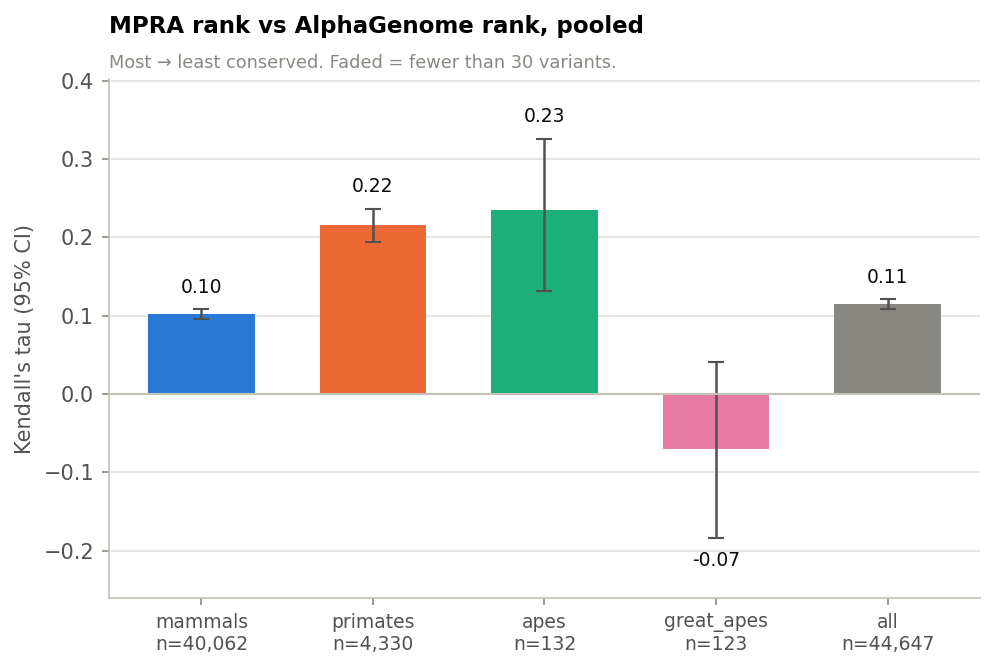
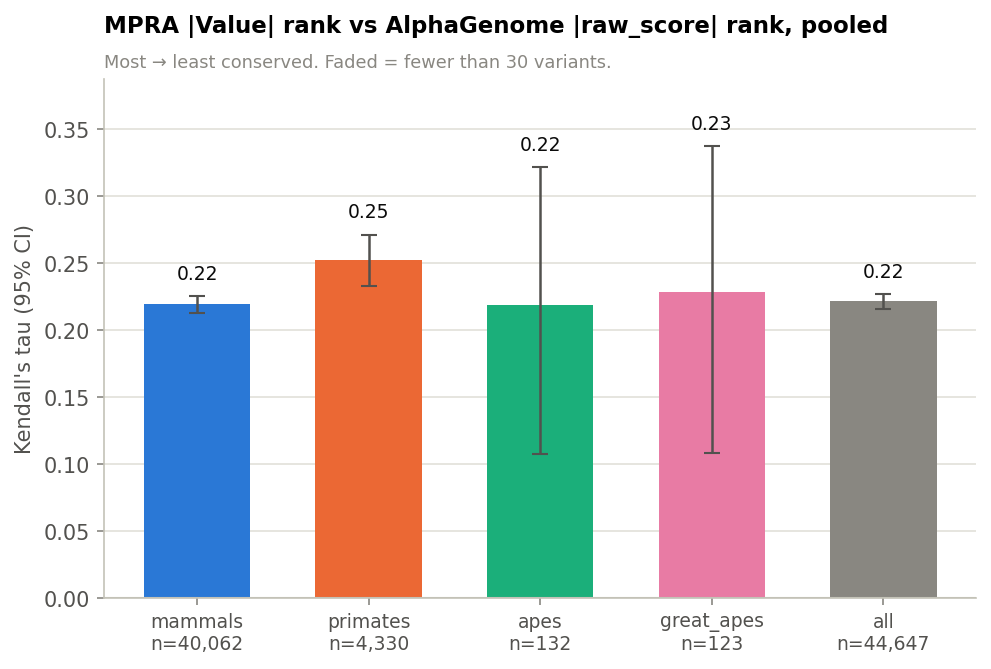
te eda

diff --git a/te_vs_mpra.py b/te_vs_mpra.py
@@ -1,0 +1,312 @@
+"""
+te_vs_mpra.py
+-------------
+Within each conservation level, compare transposable-element (TE) variants
+with non-TE variants:
+
+  1. how much of each level is TE (unique positions)
+  2. MPRA effect size |Value| for TE vs non-TE
+  3. agreement between MPRA |Value| and AlphaGenome |raw_score|
+     (Kendall's tau), for TE and non-TE separately, both pooled and within
+     element (elements differ in effect scale and TE content, so the pooled
+     numbers are confounded by element)
+
+non-TE = te_status non_repeat or other_repeat (simple / low-complexity
+repeats, which are not transposable elements).
+
+Outputs (plots/te_vs_mpra/)
+---------------------------
+  te_fraction_by_conservation.png
+  abs_value_te_vs_nonte.png
+  tau_te_vs_nonte.png
+  scatter_abs_value_vs_abs_raw_score.png
+  summary.tsv              per level x TE: n, median |Value|, pooled tau + CI
+  within_element_tau.tsv   tau per element x level x TE
+  mannwhitney.tsv          |Value| TE vs non-TE test per level
+
+Usage
+-----
+    python te_vs_mpra.py
+"""
+
+import argparse
+import os
+
+import matplotlib
+matplotlib.use("Agg")
+import matplotlib.pyplot as plt
+import numpy as np
+import pandas as pd
+from scipy.stats import chi2_contingency, kendalltau, mannwhitneyu
+
+BASE = "/data/bentonm_shared/variant_effect_prediction/Variant-Effect-Prediction"
+DATA_DIR = f"{BASE}/data"
+
+parser = argparse.ArgumentParser(description="TE vs non-TE variants within conservation levels.")
+parser.add_argument("--alphagenome", default=f"{DATA_DIR}/variants_alphagenome.tsv")
+parser.add_argument("--plot-dir", default=f"{BASE}/plots/te_vs_mpra")
+args = parser.parse_args()
+PLOT_DIR = args.plot_dir
+
+N_BOOT = 1000
+MIN_N = 30   # groups / cells smaller than this are flagged or skipped
+
+# Most to least conserved.
+LEVELS = ["mammals", "primates", "apes", "great_apes", "human_chimp", "human_only"]
+TE_GROUPS = ["non-TE", "TE"]
+
+os.makedirs(PLOT_DIR, exist_ok=True)
+rng = np.random.default_rng(0)
+
+# ── Plot style (matches compare_ag_vs_base.py) ──────────────────────────────
+TE_COLORS = {"non-TE": "#898781", "TE": "#4a3aa7"}   # neutral grey vs violet
+INK = "#0b0b0b"
+INK_2 = "#52514e"
+MUTED = "#898781"
+GRID = "#e1e0d9"
+AXIS = "#c3c2b7"
+FADED = 0.35
+
+plt.rcParams.update({
+    "font.size": 10,
+    "axes.titlesize": 11,
+    "axes.titleweight": "bold",
+    "axes.titlelocation": "left",
+    "axes.titlepad": 22,
+    "axes.labelcolor": INK_2,
+    "axes.edgecolor": AXIS,
+    "axes.spines.top": False,
+    "axes.spines.right": False,
+    "axes.grid": True,
+    "axes.grid.axis": "y",
+    "axes.axisbelow": True,
+    "grid.color": GRID,
+    "grid.linewidth": 0.8,
+    "xtick.color": MUTED,
+    "ytick.color": MUTED,
+    "xtick.labelcolor": INK_2,
+    "ytick.labelcolor": INK_2,
+    "legend.frameon": False,
+    "figure.dpi": 150,
+    "savefig.bbox": "tight",
+})
+
+
+def save(fig, name):
+    path = f"{PLOT_DIR}/{name}"
+    fig.savefig(path)
+    plt.close(fig)
+    print(f"Saved {path}")
+
+
+def fmt_p(p):
+    return "p < 1e-4" if p < 1e-4 else f"p = {p:.2g}"
+
+
+# ── Load ────────────────────────────────────────────────────────────────────
+df = pd.read_csv(args.alphagenome, sep="\t", dtype={"Chromosome": str})
+df = df.dropna(subset=["Value", "raw_score", "conservation_level", "te_status"])
+df["te"] = np.where(df["te_status"] == "TE", "TE", "non-TE")
+df["abs_value"] = df["Value"].abs()
+df["abs_raw_score"] = df["raw_score"].abs()
+levels = [lv for lv in LEVELS if lv in set(df["conservation_level"])]
+print(f"{len(df):,} variants; levels: {', '.join(levels)}")
+
+
+# ── 1. TE fraction per level (unique positions) ─────────────────────────────
+pos = df.drop_duplicates(["Chromosome", "Position"])
+counts = pd.crosstab(pos["conservation_level"], pos["te"]).reindex(levels).fillna(0)
+chi2, chi_p, _, _ = chi2_contingency(counts[TE_GROUPS])
+frac = counts.div(counts.sum(axis=1), axis=0)
+
+fig, ax = plt.subplots(figsize=(7.5, 3.6))
+y = np.arange(len(levels))[::-1]
+left = np.zeros(len(levels))
+for g in TE_GROUPS:
+    ax.barh(y, frac[g] * 100, left=left, color=TE_COLORS[g], height=0.62,
+            edgecolor="white", linewidth=2, label=g)
+    left += frac[g].to_numpy() * 100
+for yi, lv in zip(y, levels):
+    ax.text(101, yi, f"{frac.loc[lv, 'TE']:.0%} TE   n={int(counts.loc[lv].sum()):,}",
+            va="center", fontsize=8.5, color=INK_2)
+ax.set_yticks(y, levels)
+ax.set_xlim(0, 100)
+ax.set_xlabel("% of unique variant positions")
+ax.grid(False)
+ax.set_title("TE share of variant positions by conservation level")
+ax.text(0, 1.04, f"Most → least conserved, top to bottom. χ² {fmt_p(chi_p)}.",
+        transform=ax.transAxes, fontsize=8.5, color=MUTED)
+ax.legend(loc="upper left", bbox_to_anchor=(0, -0.18), ncol=2, fontsize=8.5)
+save(fig, "te_fraction_by_conservation.png")
+
+
+# ── 2. |Value| TE vs non-TE within each level ───────────────────────────────
+mw_rows = []
+fig, ax = plt.subplots(figsize=(7.5, 4.6))
+width = 0.34
+for i, lv in enumerate(levels):
+    sub = df[df["conservation_level"] == lv]
+    a = sub.loc[sub["te"] == "TE", "abs_value"]
+    b = sub.loc[sub["te"] == "non-TE", "abs_value"]
+    for j, g in enumerate(TE_GROUPS):
+        vals = sub.loc[sub["te"] == g, "abs_value"]
+        if vals.empty:
+            continue
+        x = i + (j - 0.5) * width
+        bp = ax.boxplot(vals, positions=[x], widths=width * 0.85, showfliers=False,
+                        patch_artist=True, medianprops={"color": "white", "lw": 2},
+                        whiskerprops={"color": TE_COLORS[g]}, capprops={"color": TE_COLORS[g]})
+        bp["boxes"][0].set(facecolor=TE_COLORS[g], edgecolor=TE_COLORS[g],
+                           alpha=FADED if len(vals) < MIN_N else 1)
+    if len(a) and len(b):
+        p = mannwhitneyu(a, b).pvalue
+        mw_rows.append({"conservation_level": lv, "n_TE": len(a), "n_nonTE": len(b),
+                        "median_abs_value_TE": a.median(), "median_abs_value_nonTE": b.median(),
+                        "mannwhitney_p": p})
+        ax.annotate(fmt_p(p), (i, 1), xycoords=("data", "axes fraction"), ha="center",
+                    va="bottom", fontsize=8.5, color=INK_2)
+mw = pd.DataFrame(mw_rows)
+mw.to_csv(f"{PLOT_DIR}/mannwhitney.tsv", sep="\t", index=False)
+n_by = df.groupby(["conservation_level", "te"]).size()
+ax.set_xticks(range(len(levels)),
+              [f"{lv}\nTE {n_by.get((lv, 'TE'), 0):,}\nnon-TE {n_by.get((lv, 'non-TE'), 0):,}"
+               for lv in levels], fontsize=8.5)
+ax.set_ylabel("MPRA |Value|  (|log2 effect|)")
+ax.set_title("MPRA effect size, TE vs non-TE variants", pad=34)
+ax.text(0, 1.07, f"Boxes = IQR, white line = median, whiskers 1.5×IQR. Mann–Whitney p above. "
+        f"Faded = n < {MIN_N}.", transform=ax.transAxes, fontsize=8.5, color=MUTED)
+for g in TE_GROUPS:
+    ax.bar(0, 0, color=TE_COLORS[g], label=g)
+ax.legend(loc="upper right", fontsize=8.5)
+save(fig, "abs_value_te_vs_nonte.png")
+
+
+# ── 3. Kendall's tau |Value| vs |raw_score|, TE vs non-TE ───────────────────
+def tau(g):
+    return kendalltau(g["abs_value"], g["abs_raw_score"])[0]
+
+
+rows = []
+for lv in levels:
+    for g in TE_GROUPS:
+        sub = df[(df["conservation_level"] == lv) & (df["te"] == g)]
+        if len(sub) < 3:
+            continue
+        idx = np.arange(len(sub))
+        boot = [tau(sub.iloc[rng.choice(idx, len(sub))]) for _ in range(N_BOOT)]
+        rows.append({"conservation_level": lv, "te": g, "n": len(sub),
+                     "median_abs_value": sub["abs_value"].median(),
+                     "kendall_tau": tau(sub),
+                     "tau_p": kendalltau(sub["abs_value"], sub["abs_raw_score"])[1],
+                     "tau_lo": np.nanpercentile(boot, 2.5),
+                     "tau_hi": np.nanpercentile(boot, 97.5),
+                     "low_n": len(sub) < MIN_N})
+summary = pd.DataFrame(rows)
+summary.to_csv(f"{PLOT_DIR}/summary.tsv", sep="\t", index=False)
+
+# Within element: tau per (element, level, TE) cell, so variants are only
+# ranked against others in the same element; n-weighted mean per level x TE,
+# CI from resampling elements.
+cells = []
+for (el, lv, g), sub in df.groupby(["Element", "conservation_level", "te"]):
+    if len(sub) < MIN_N:
+        continue
+    cells.append({"Element": el, "conservation_level": lv, "te": g,
+                  "n": len(sub), "kendall_tau": tau(sub)})
+cells = pd.DataFrame(cells)
+cells.to_csv(f"{PLOT_DIR}/within_element_tau.tsv", sep="\t", index=False)
+
+
+def wtau(c):
+    return np.average(c["kendall_tau"], weights=c["n"])
+
+
+within_rows = []
+for (lv, g), c in cells.groupby(["conservation_level", "te"]):
+    boot = [wtau(c.iloc[rng.choice(len(c), len(c))]) for _ in range(N_BOOT)]
+    within_rows.append({"conservation_level": lv, "te": g, "n_elements": len(c),
+                        "n": int(c["n"].sum()), "weighted_tau": wtau(c),
+                        "tau_lo": np.percentile(boot, 2.5), "tau_hi": np.percentile(boot, 97.5)})
+within = pd.DataFrame(within_rows)
+
+pd.set_option("display.width", 200)
+print("\nPooled tau (|Value| vs |raw_score|):")
+print(summary.round(4).to_string(index=False))
+print("\nWithin-element tau:")
+print(within.round(4).to_string(index=False))
+print("\n|Value| TE vs non-TE:")
+print(mw.round(4).to_string(index=False))
+
+
+def grouped_bars(ax, table, val, faded_col, label_fn):
+    width = 0.36
+    for j, g in enumerate(TE_GROUPS):
+        t = table[table["te"] == g].set_index("conservation_level")
+        for i, lv in enumerate(levels):
+            if lv not in t.index:
+                continue
+            r = t.loc[lv]
+            x = i + (j - 0.5) * width
+            ax.bar(x, r[val], width=width * 0.92, color=TE_COLORS[g],
+                   alpha=FADED if faded_col(r) else 1,
+                   label=g if lv == t.index[0] else None)
+            ax.errorbar(x, r[val], yerr=[[r[val] - r["tau_lo"]], [r["tau_hi"] - r[val]]],
+                        fmt="none", ecolor=INK_2, elinewidth=1.1, capsize=3)
+            ax.annotate(label_fn(r), (x, max(r["tau_hi"], r[val])), xytext=(0, 4),
+                        textcoords="offset points", ha="center", va="bottom",
+                        fontsize=7, color=INK_2)
+    ax.axhline(0, color=AXIS, lw=1)
+    ax.margins(y=0.18)
+    ax.set_xticks(range(len(levels)), levels, fontsize=9)
+
+
+fig, (a1, a2) = plt.subplots(1, 2, figsize=(12, 4.8), sharey=True)
+grouped_bars(a1, summary, "kendall_tau", lambda r: r["low_n"], lambda r: f"n={r['n']:,}")
+a1.set_ylabel("Kendall's tau, |Value| vs |raw_score| (95% CI)")
+a1.set_title("Pooled within each level")
+a1.text(0, 1.04, f"Faded = n < {MIN_N}.", transform=a1.transAxes, fontsize=8.5, color=MUTED)
+grouped_bars(a2, within, "weighted_tau", lambda r: r["n_elements"] < 3,
+             lambda r: f"{r['n_elements']} el")
+a2.set_title("Within element (n-weighted mean)")
+a2.text(0, 1.04, f"Cells with n ≥ {MIN_N}; CI over elements. Faded = fewer than 3 elements.",
+        transform=a2.transAxes, fontsize=8.5, color=MUTED)
+a2.legend(handles=[plt.Rectangle((0, 0), 1, 1, color=TE_COLORS[g]) for g in TE_GROUPS],
+           labels=TE_GROUPS, loc="upper right", fontsize=8.5)
+fig.suptitle("Does AlphaGenome track MPRA effect size equally for TE and non-TE variants?",
+             x=0.06, ha="left", fontweight="bold", fontsize=11, y=1.03)
+save(fig, "tau_te_vs_nonte.png")
+
+
+# ── 4. Scatter |Value| vs |raw_score|, rows = TE status, cols = level ───────
+fig, axes = plt.subplots(2, len(levels), figsize=(3.2 * len(levels), 6.4),
+                         sharex=True, sharey=True, squeeze=False)
+xmax = df["abs_value"].quantile(0.995)
+ymax = df["abs_raw_score"].quantile(0.995)
+for r, g in enumerate(TE_GROUPS):
+    for c, lv in enumerate(levels):
+        ax = axes[r, c]
+        ax.grid(True, axis="both")
+        sub = df[(df["conservation_level"] == lv) & (df["te"] == g)]
+        alpha = float(np.clip(30 / max(len(sub), 1), 0.04, 0.8))
+        ax.scatter(sub["abs_value"], sub["abs_raw_score"], s=6, color=TE_COLORS[g],
+                   alpha=alpha, linewidths=0, rasterized=True)
+        if len(sub) >= 3:
+            ax.text(0.97, 0.95, f"τ = {tau(sub):.2f}\nn = {len(sub):,}",
+                    transform=ax.transAxes, ha="right", va="top", fontsize=8.5, color=INK)
+        if r == 0:
+            ax.set_title(lv, pad=8)
+        if c == 0:
+            ax.set_ylabel(f"{g}\n|raw_score|")
+        if r == 1:
+            ax.set_xlabel("MPRA |Value|")
+# Both scores are heavily right-skewed: symlog keeps zeros while spreading
+# out the dense low end.
+axes[0, 0].set_xscale("symlog", linthresh=0.01)
+axes[0, 0].set_yscale("symlog", linthresh=0.001)
+axes[0, 0].set_xlim(0, xmax)
+axes[0, 0].set_ylim(0, ymax)
+fig.suptitle("MPRA |Value| vs AlphaGenome |raw_score|", x=0.02, ha="left",
+             fontweight="bold", fontsize=11, y=1.04)
+fig.text(0.02, 1.0, "Symlog axes (linear below 0.01 / 0.001), clipped at the 99.5th percentile.",
+         fontsize=8.5, color=MUTED)
+save(fig, "scatter_abs_value_vs_abs_raw_score.png")
